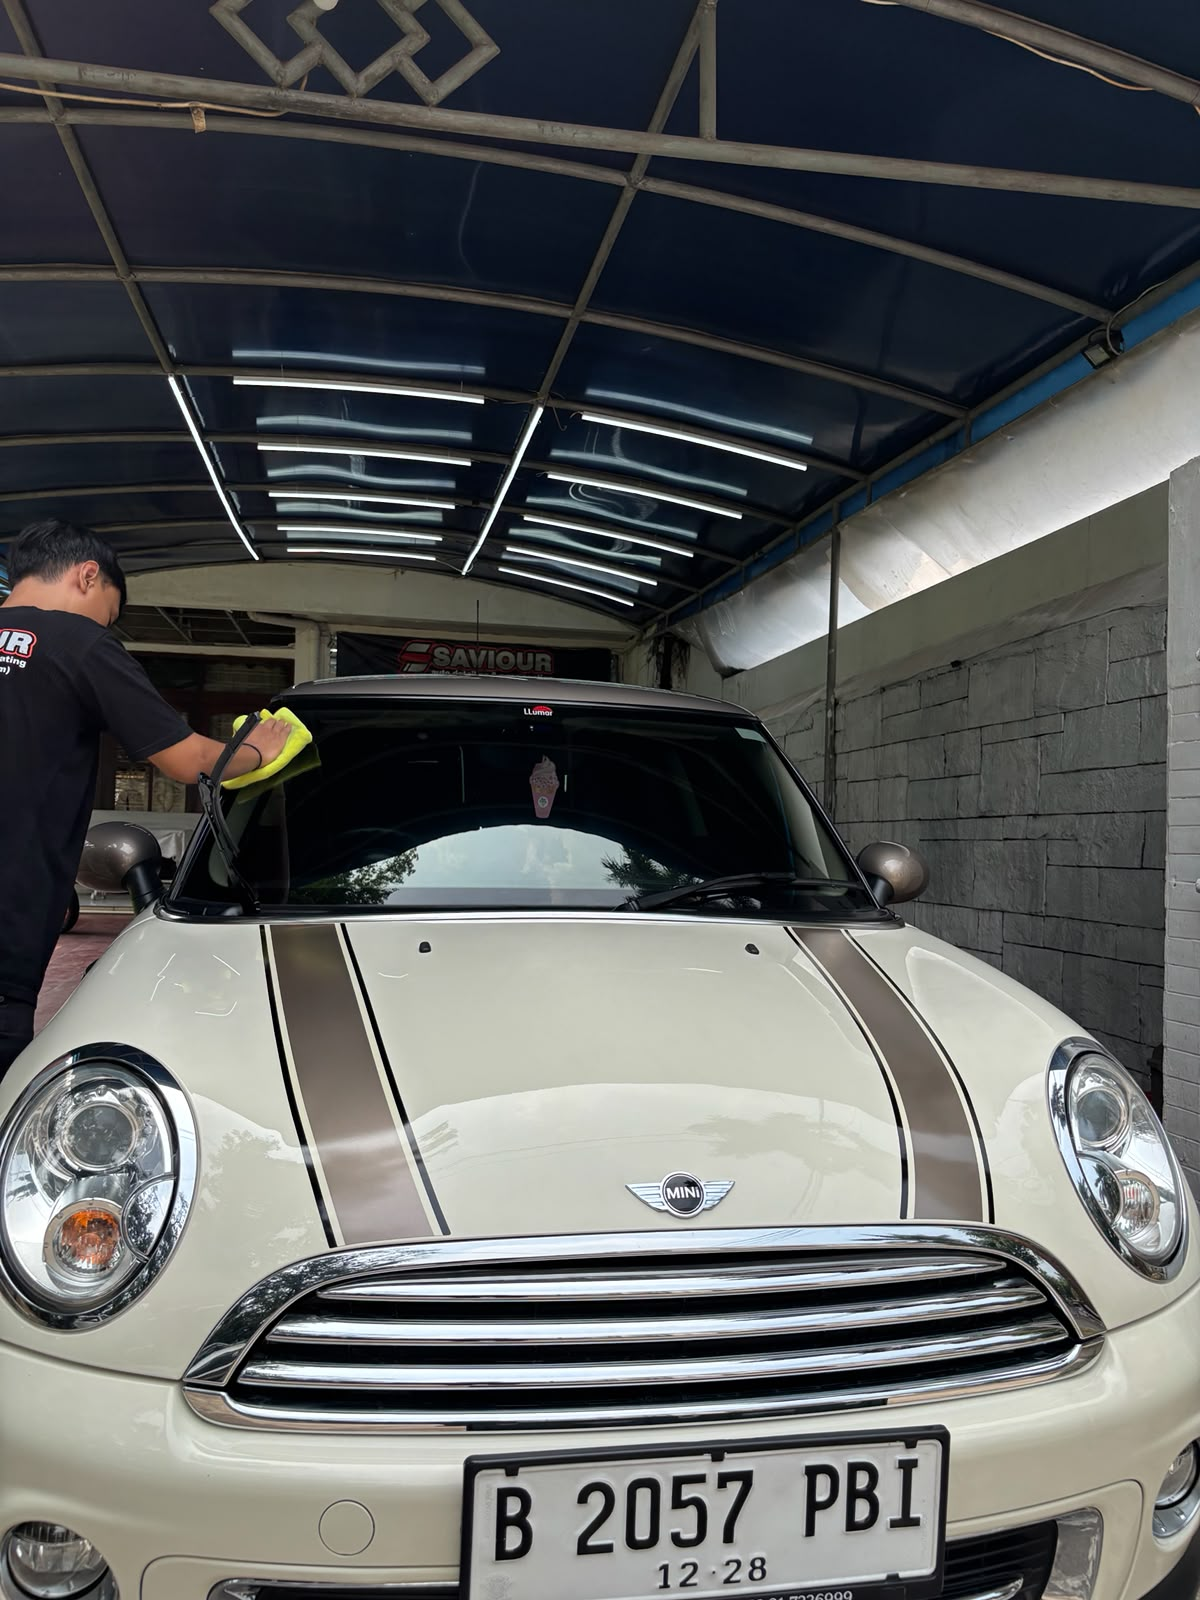
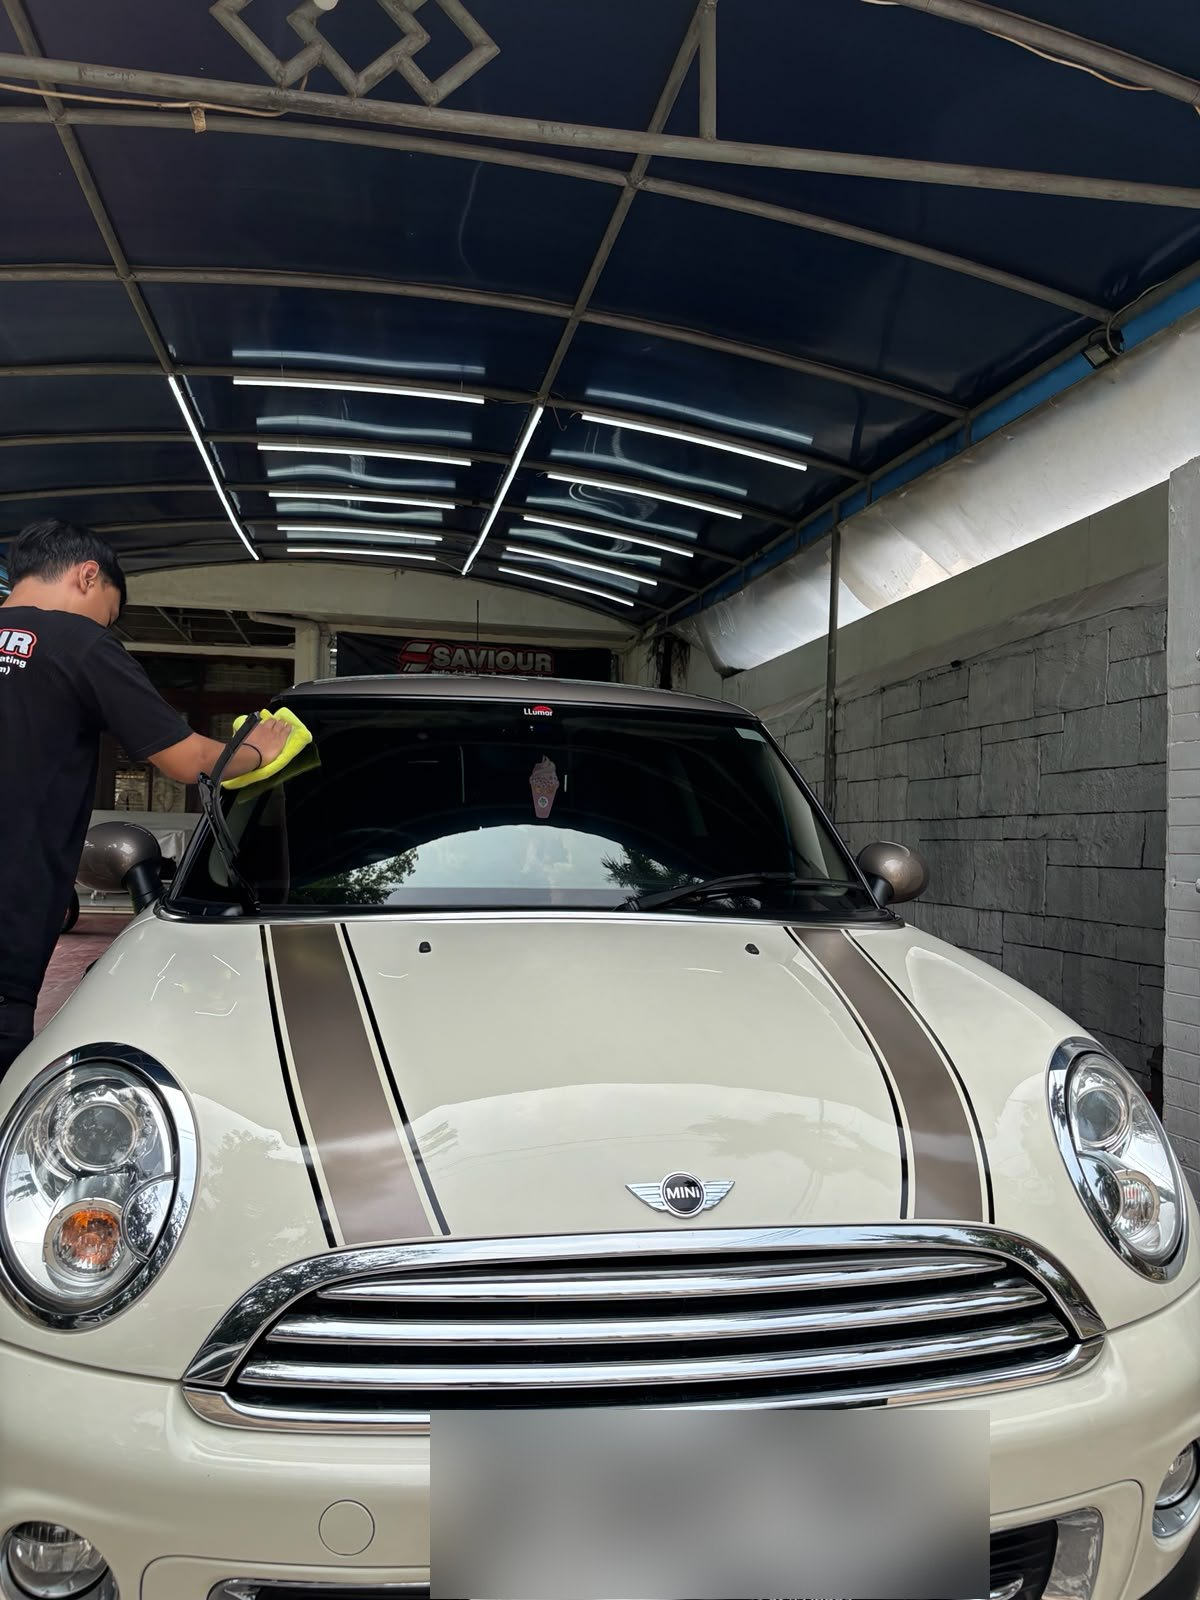
Add workshop photos to gallery

Changed region(s): [[0.3392, 0.875, 0.8325, 1.0]]

diff --git a/saviour-reservasi/public/index.html b/saviour-reservasi/public/index.html
@@ -68,7 +68,10 @@
     <figure><img class="foto-portofolio" src="img/saviour-mercedes-detailing.png" alt="Mercedes-Benz setelah perawatan detailing" loading="lazy"><figcaption>Mercedes-Benz detailing</figcaption></figure>
     <figure><img class="foto-portofolio" src="img/saviour-white-car-workshop.png" alt="Mobil putih di area detailing Saviour" loading="lazy"><figcaption>Detailing di bengkel Saviour</figcaption></figure>
     <figure><img class="foto-portofolio" src="img/saviour-car-polishing.png" alt="Teknisi sedang memoles bodi mobil" loading="lazy"><figcaption>Proses poles bodi mobil</figcaption></figure>
-    <figure><img class="foto-portofolio" src="img/Foto Mini C .jpeg" alt="Foto Mini C" loading="lazy"><figcaption>Mini C</figcaption></figure>
+    <figure><img class="foto-portofolio" src="img/Foto Mini C .jpeg" alt="Teknisi membersihkan Mini Cooper di bengkel Saviour" loading="lazy"><figcaption>Perawatan Mini Cooper</figcaption></figure>
+    <figure><img class="foto-portofolio" src="img/mg-workshop.jpg" alt="Mobil MG hitam di ruang detailing Saviour" loading="lazy"><figcaption>MG hitam setelah detailing</figcaption></figure>
+    <figure><img class="foto-portofolio" src="img/mazda-red-workshop.jpg" alt="Mazda merah di bengkel Saviour Auto Detailing" loading="lazy"><figcaption>Mazda merah</figcaption></figure>
+    <figure><img class="foto-portofolio" src="img/toyota-black-workshop.jpg" alt="SUV Toyota hitam di area detailing Saviour" loading="lazy"><figcaption>Toyota hitam</figcaption></figure>
   </div>
 </div></section>
 
